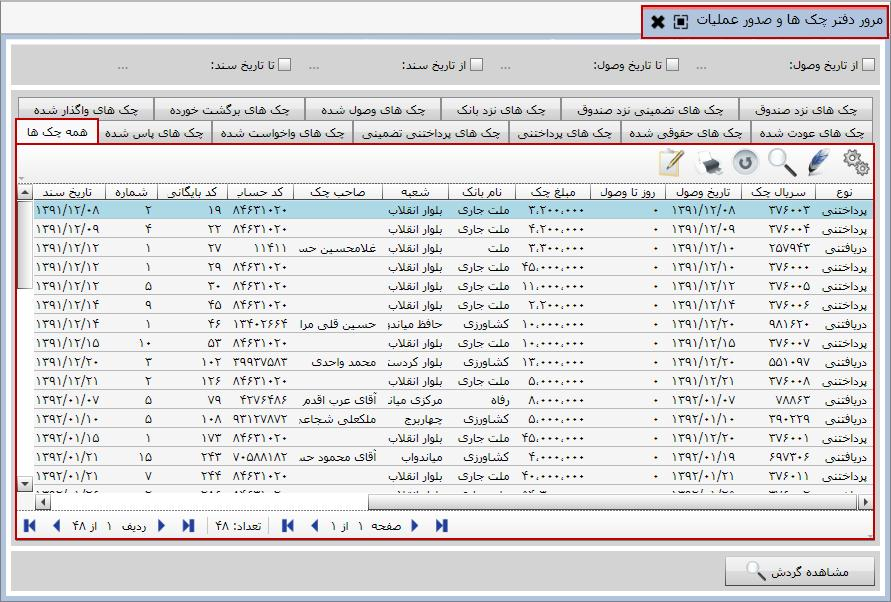
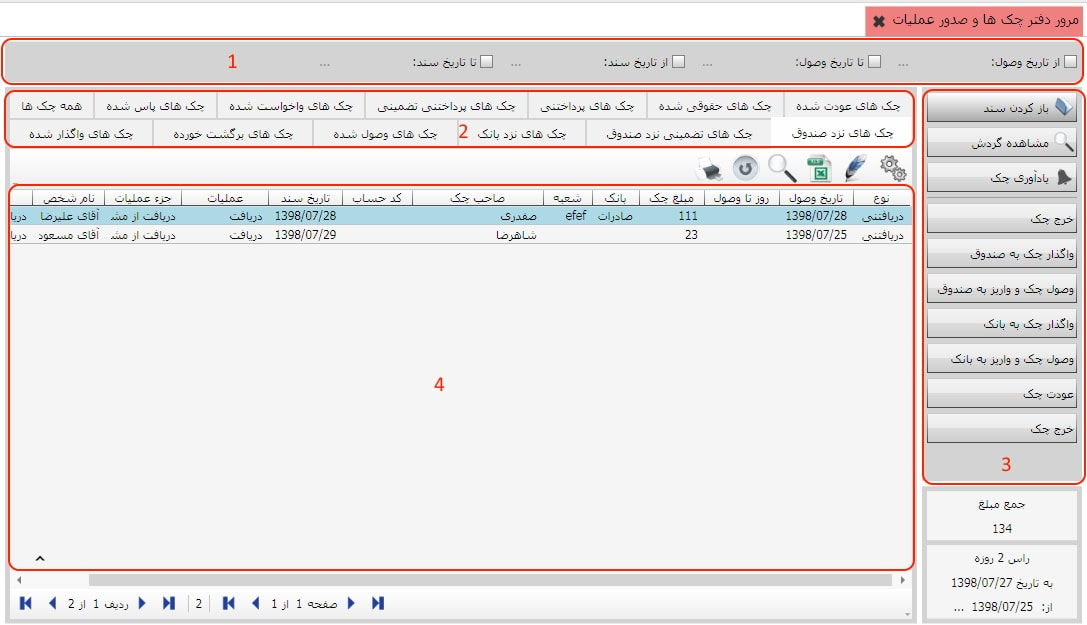
مرور دفتر چکها و صدور عملیات

diff --git a/Help/fa-IR/_04_خزانه داری/_11_مرور دفتر چک ها و صدور عملیات/Index.html b/Help/fa-IR/_04_خزانه داری/_11_مرور دفتر چک ها و صدور عملیات/Index.html
@@ -1,31 +1,63 @@
 <!DOCTYPE html>
 <html>
-	<head>
-		<meta charset="UTF-8">
-		<link rel="stylesheet" type="text/css" href="..\..\style.css">
-	</head>
-	<body>
-		<div>
-			<img class="Icon" src="i1.png"/>
-			<h1>مرور دفتر چک ها و صدور عملیات</h1>
-		</div>
-		<p>
-			روی گزینه «مرور دفتر چک ها و صدور عملیات» کلیک کنید تا صفحه مربوط به آن باز شود:
-		</p>
-		<img class="LargePic" src="l1.jpg"/>
-		<p>
-			همان طور که مشاهده می کنید این صفحه شامل تب هایی است که با انتخاب هر یک از این تب ها می توانید اطلاعات مربوط به آن ها را در جدول این صفحه مشاهده کنید. برای مثال در شکل بالا تب «همه چک ها» انتخاب شده است و در جدول آن لیست همه چک ها را با مشخصات آنها از قبیل نوع،نام صاحب چک،مبلغ چک و ... مشاهده می کنید. 
-			<br/>
-			چک های معرفی شده در سیستم بر اساس آخرین عملیاتی که روی آن ها صورت گرفته در تب های موجود دسته بندی شده اند. با انتخاب هر تب در نوار پایین صفحه «مرور دفتر چک ها و صدور عملیات»  گزینه هایی متناسب با آن تب ظاهر می شوند که به کمک آن ها می توانید عملیاتی را روی چک هایی که در تب انتخابی قرار دارند انجام دهید. برای این کار کافی است چک مورد نظر را انتخاب کرده سپس روی گزینه مناسب با عملیات مورد نظرتان کلیک کنید. برای مثال در شکل بالا برای تب «همه چک ها» فقط گزینه «مشاهده گردش»
-			<img class="PicInText" src="pit1.jpg"/>
-			وجود دارد و با انتخاب چک مورد نظر و کلیک روی این گزینه می توانید گردش مالی چک انتخابی را مشاهده کنید. در شکل زیر تب « چک های نزد صندوق» انتخاب شده است، مشاهده می کنید که گزینه های دیگری مطابق با این تب ظاهر شده اند:
-		</p>
-		<img class="LargePic" src="l2.jpg"/>
-		<p>
-			با اندکی دقت می توان فهمید که گزینه های موجود در پایین صفحه هر تب عوامل تخصیص داده شده به عملیات مختلف است و به ما نشان می دهد که در هر مرحله از گردش چک، چه عملیاتی می توان روی چک ها انجام داد و چه عملیاتی برای چک انتخاب شده مجاز می باشد. سایر تب ها را نیز می توانید به همین شکل بررسی کنید تا نحوه کار با صفحه «مرور دفتر چک ها و صدور عملیات» را به طور کامل فراگیرید.
-		</p>
-		<p>
-			در آخر به کمک نوار ابزاری که در بالای صفحه مرور دفتر چک ها و صدور عملیات قرار دارد لیست چک هایی که در جدول قرار دارند را بر اساس «از تاریخ وصول»، «تا تاریخ وصول»، «از تاریخ سند» و «تا تاریخ سند» فیلتر کنید تا بر اساس این فیلتر لیست چک ها به نمایش درآید.
-		</p>
-	</body>
+
+<head>
+	<meta charset="UTF-8">
+	<link rel="stylesheet" type="text/css" href="..\..\style.css">
+</head>
+
+<body>
+	<div>
+		<img class="Icon" src="i1.png" />
+		<h1>مرور دفتر چک ها و صدور عملیات</h1>
+	</div>
+	<p>
+		در این بخش شما می توانید لیستی از همه ی چکها اعم از دریافتی و پرداختی
+		به تفکیک نوع عملیات در اختیار داشته باشید، می توانید با انتخاب تب عملیات مورد نظر
+		و مشاهده ی لیست چکهای مربوطه بر روی آنها عملیاتی را انجام دهید
+		روی گزینه «مرور دفتر چک ها و صدور عملیات» کلیک کنید تا صفحه مربوط به آن باز شود:
+	</p>
+	<img class="LargePic" src="l1.jpg" />
+	<p>
+		<strong class="title">کادر شماره 1:</strong>
+		در کادر شماره ی یک شما می توانید فیلتر هایی نظیر تاریخ وصول و تاریخ سند اعمال کنید
+		که در این صورت سیستم تنها چکهایی را نمایش خواهد داد که در بازه ی زمانی تعیین شده
+		در تاریخ وصول یا تاریخ سند می باشند.
+		<br>
+		<strong class="title">کادر شماره 2:</strong>
+		در این کادر تبهایی را مشاهده می کنید که اگر بر روی هر یک کلیک کنید سیستم فقط چکهای
+		مربوط به تب انتخاب شده را نمایش می دهد، در تصویر بالا تب چکهای نزد صندوق انتخاب شده است.
+		<br>
+		<strong class="title">کادر شماره 3:</strong>
+		در این کادر کلید هایی نظیر باز کردن سند، مشاهده ی گردش، خرج چک، واگذار چک به صندوق و ... را
+		مشاهده می کنید، باید توجه داشته باشید که تعداد این کلید ها با توجه به تبی که از کادر شماره ی دو
+		انتخاب می کنید متفاوت است یعنی در رابطه با هر تب تنها کلید هایی نمایان می شوند که شما مجاز به
+		استفاده از آنها هستید، اگر بر روی هر یک از این کلید ها کلیک کنید صفحه ی صدور و ویرایش سند خزانه باز
+		می شود شما می توانید عملیات مورد نظر خود را بر روی چک انتخاب شده انجام دهید و یا اطلاعات مورد نیازتان را
+		مشاهده کنید.
+		<br>
+		<strong class="title">کادر شماره 4:</strong>
+		پس از اعمال فیلتر های مورد نظر در کادر یک و انتخاب تب مد نظر از کادر شماره ی دو لیست چکهای مورد انتظار
+		در کادر شماره ی چهار نمایش داده می شوند، در این لیست اطلاعاتی نظیر نوع چک، تاریخ وصول، مبلغ چک، صاحب چک و ...
+		نیز قابل مشاهده می باشد.
+		<br>
+		در ادامه به شرح مثالی می پردازیم، برای خرج کردن یکی از چکهای صندوق
+		به شرح زیر عمل کنید :
+	</p>
+	<img class="LargePic" src="l2.jpg" />
+	<p>
+		ابتدا مطابق تصویر بالا از کادر شماره ی
+		دو تب چکهای نزد صندوق را انتخاب کنید،
+		سپس بر روی کلید خرج چک کلیک کنید، پنجره ی صدور و ویرایش سند خزانه باز می شود:
+	</p>
+	<img class="LargePic" src="l3.jpg" />
+	<p>
+		پس از تکمیل اطلاعات پنجره ی بالا کلید ثبت سند را بزنید :
+	</p>
+	<img class="LargePic" src="l4.jpg" />
+	<p>
+		همان طور که در تصویر بالا مشاهده می کنید چک از صندوق خارج و به تب چک های واگذار شده منتقل شد.
+	</p>
+</body>
+
 </html>
